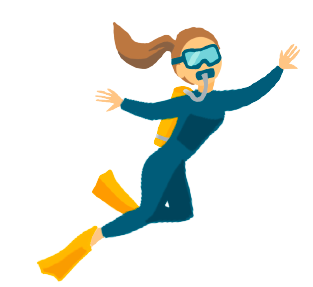
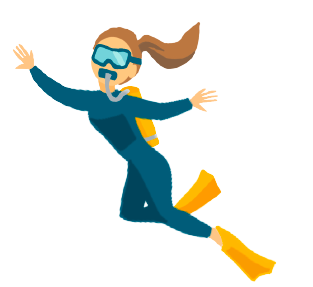
added diver collision

Changed region(s): [[0.0288, 0.0836, 0.9776, 1.0]]

diff --git a/public/start.html b/public/start.html
@@ -3,6 +3,8 @@
 <head> 
     <meta charset="UTF-8" />
     <title>Mr. Turtle - Game</title>
+    <link rel="stylesheet" href="style.css">
+    <!-- <canvas style="margin:auto;"></canvas> -->
     <script src="//cdn.jsdelivr.net/npm/phaser@3.11.0/dist/phaser.js"></script>
     <style type="text/css">
         body {
@@ -10,8 +12,7 @@
         }
     </style>
 </head>
-<body>
-
+<body style="background-image: linear-gradient(#1AADB7, #00667E);">
 <script type="text/javascript">
 
 var config = {
@@ -55,6 +56,7 @@ function preload ()
     this.load.image('seaweed', 'assets/seaweed.png');
     this.load.image('shark', 'assets/shark.png');
     this.load.image('turtle', 'assets/turtle.png');
+    this.load.image('diver', 'assets/diver.png');
 }
 
 function create ()
@@ -89,18 +91,21 @@ function create ()
     player.setBounce(0.2);
     player.setCollideWorldBounds(true);
 
+    // Add diver at end of map at 2200, 200
+    diver = this.physics.add.image(200, 200, 'diver')
+
     //  Input Events
     cursors = this.input.keyboard.createCursorKeys();
 
     // add objects randomly
-    bubbles = this.physics.add.group(name='bubbles');
+    bubbles = this.physics.add.group();
     seaweeds = this.physics.add.group();
     sharks = this.physics.add.group();
     plasticBags = this.physics.add.group();
 
     const NUM_BUBBLES = 5; // 5
-    const NUM_SEAWEEDS = 15; // 15
-    const NUM_SHARKS = 5; // 5
+    const NUM_SEAWEEDS = 0; // 15
+    const NUM_SHARKS = 0; // 5
     const NUM_PLASTICBAGS = 25; // 25
     const TOTAL_NUM_ITEMS = NUM_BUBBLES + NUM_SEAWEEDS + NUM_SHARKS + NUM_PLASTICBAGS;
 
@@ -140,13 +145,16 @@ function create ()
     this.physics.add.collider(bubbles, rocks);
     this.physics.add.collider(sharks, rocks);
 
-
-    //  Checks to see if the player overlaps with any of the plasticBags, if he does call the collect function
+    //  Checks to see if the player overlaps with any of the collectibles
     var collectibles = [bubbles, plasticBags]
     this.physics.add.overlap(player, collectibles, collectItem, null, this);
 
+    // Check for collisions with obstacles
     var obstacles = [seaweeds, sharks];
     this.physics.add.collider(player, obstacles, hitObstacle, null, this);
+
+    // Check if collided with diver
+    this.physics.add.collider(player, diver, talkToDiver, null, this);
 }
 
 function update ()
@@ -186,11 +194,12 @@ function update ()
 function collectItem (player, item)
 {
     item.disableBody(true, true);
-
-    //  Add and update the score
-    score += 10;
+    if (item.texture.key === 'bubble') {
+        score += 100;
+    } else {
+        score += 10;
+    }
     scoreText.setText(score);
-
 }
 
 function hitObstacle(player, obstacle)
@@ -201,6 +210,13 @@ function hitObstacle(player, obstacle)
     console.log('game over!')
 }
 
-</script>
+function talkToDiver (player, diver)
+{
+    console.log('talking to diver!')
+    this.physics.pause();
+    gameOver = true;
+}
 
+
+</script>
 </body>

diff --git a/public/howto.html b/public/howto.html
@@ -2,7 +2,7 @@
 <html>
     <head>
         <meta charset="UTF-8" />
-        <title>How To Play</title>
+        <title>Mr. Turtle - How To Play</title>
         <link rel="stylesheet" href="style.css">
         <link rel="preconnect" href="https://fonts.gstatic.com">
         <link href="https://fonts.googleapis.com/css2?family=Balsamiq+Sans&display=swap" rel="stylesheet">

diff --git a/public/about.html b/public/about.html
@@ -2,7 +2,7 @@
 <html>
     <head>
         <meta charset="UTF-8" />
-        <title>ABOUT</title>
+        <title>Mr. Turtle - About</title>
         <link rel="stylesheet" href="style.css">
         <link rel="preconnect" href="https://fonts.gstatic.com">
         <link href="https://fonts.googleapis.com/css2?family=Balsamiq+Sans&display=swap" rel="stylesheet">

diff --git a/public/index.js b/public/index.js
@@ -1,0 +1,2 @@
+import UIPlugin from 'phaser3-rex-plugins/templates/ui/ui-plugin.js';
+console.log('hi from index!')
